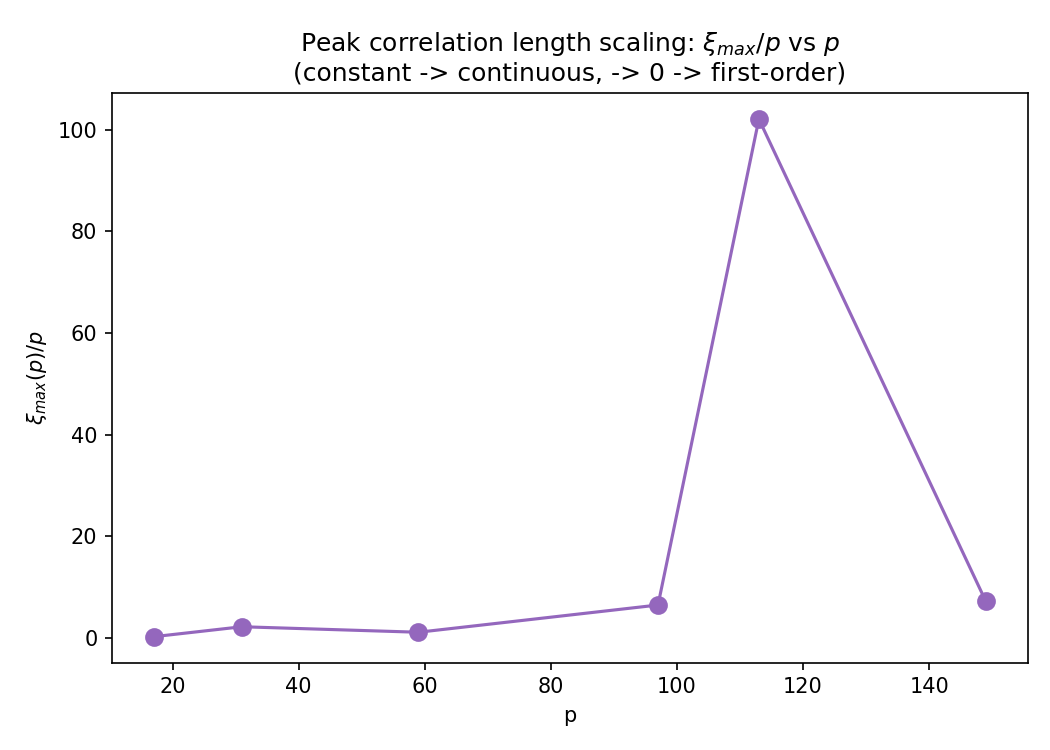
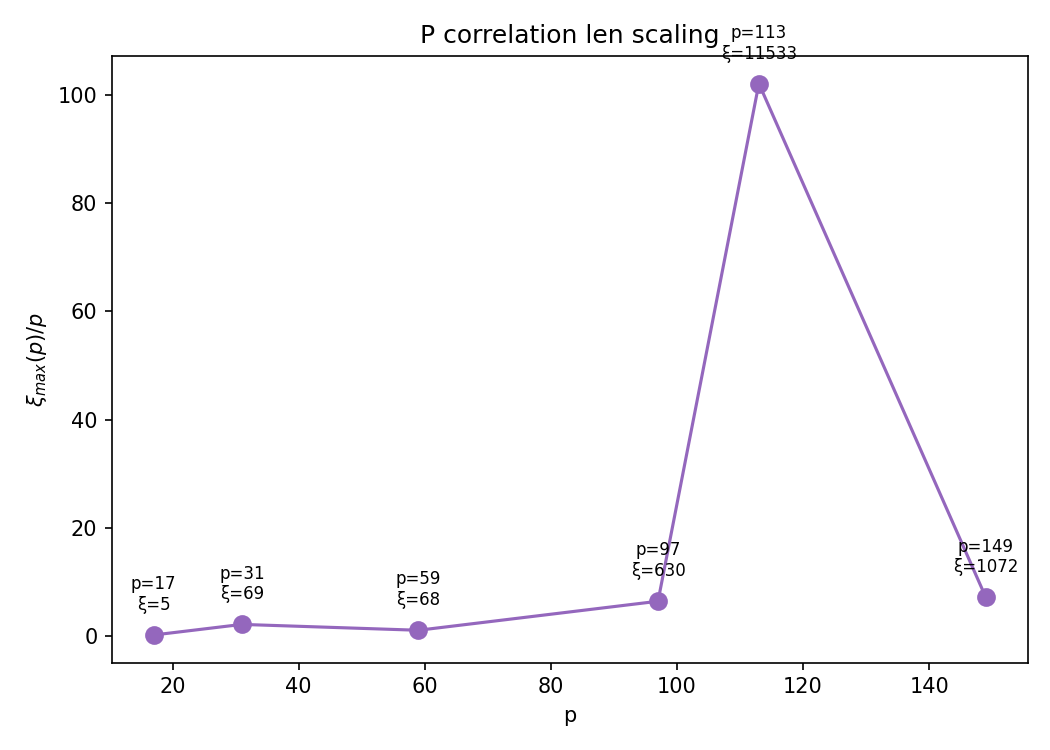
Added: legend for p vs zernike correlation

diff --git a/transformer-pt-analysis-main/src/analysis.py b/transformer-pt-analysis-main/src/analysis.py
@@ -523,7 +523,7 @@ def plot_Mdiag_histogram(all_results, t_ref=None, bins=15):
     plt.xlabel(r'$M_{diag}(t_{ref})$')
     plt.ylabel('number of seeds')
     plt.title(f'Distribution of order parameter at t_ref={t_ref_used:.0f}\n'
-              f'(unimodal → continuous, bimodal → first-order)')
+              f'(unimodal - continuous, bimodal → first-order)')
     plt.xlim(0, 1)
     plt.tight_layout()
     plt.savefig("Mdiag_at_tg_histogram.png", dpi=150)
